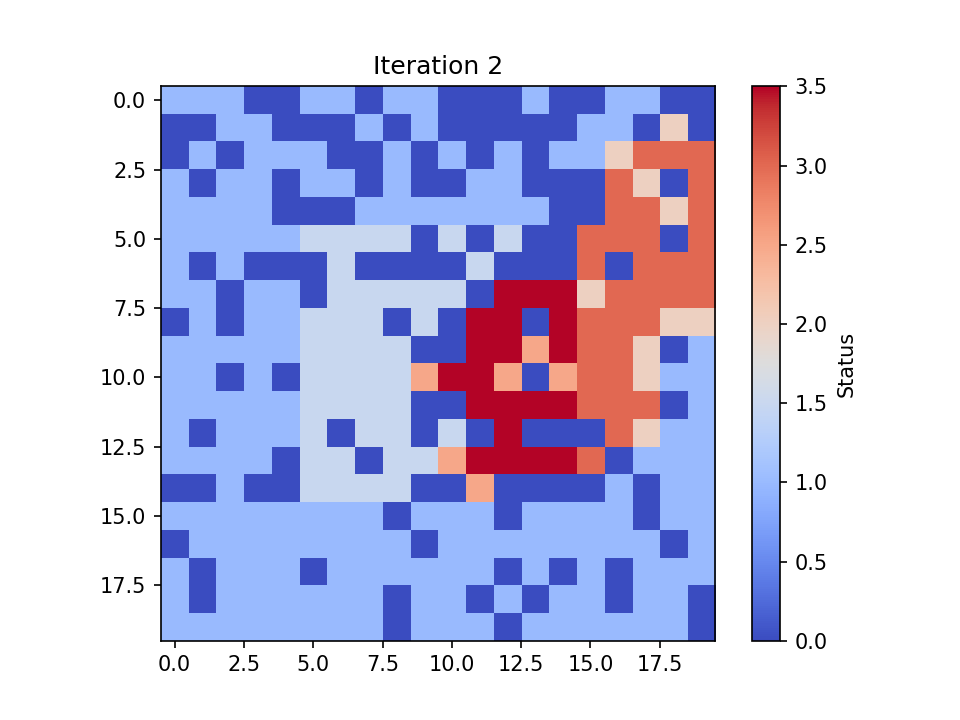
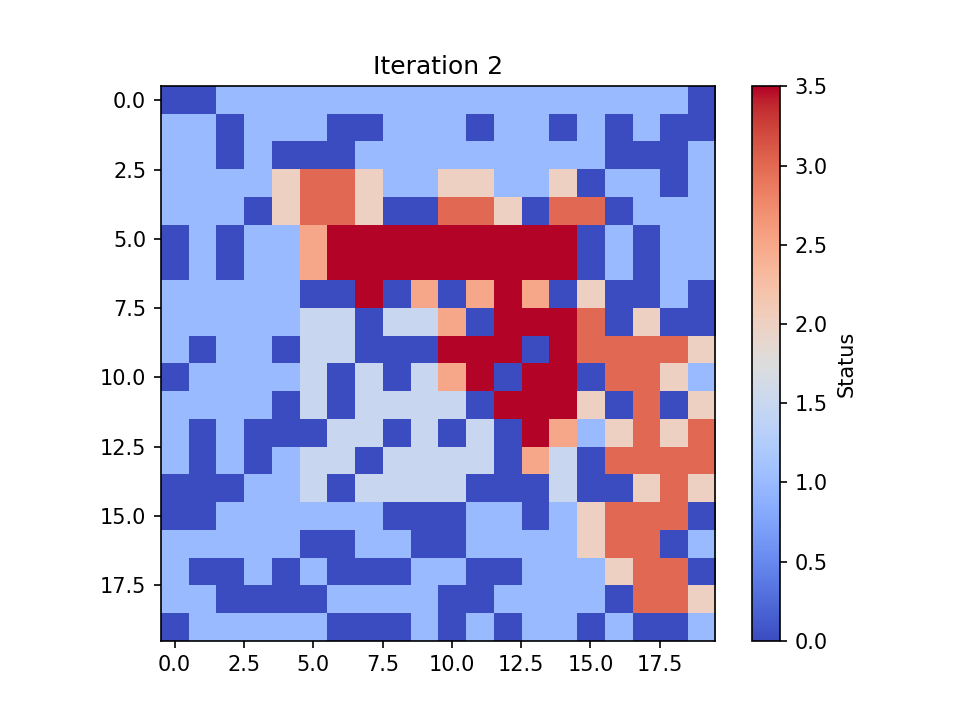
Final tweeks to the show_lecture_hall_over_time function

Changed region(s): [[0.1562, 0.0917, 0.75, 0.8861]]

diff --git a/code/ca_lecture_hall_model.py b/code/ca_lecture_hall_model.py
@@ -1,12 +1,15 @@
-from enum import Enum
 import copy
-import numpy as np
-import matplotlib.pyplot as plt
-from matplotlib.animation import PillowWriter
-import random
 import os
-from matplotlib import animation
+import random
+from enum import Enum
+
+import matplotlib.pyplot as plt
+import numpy as np
 from IPython.display import HTML
+from matplotlib import animation
+from matplotlib.animation import PillowWriter
+from matplotlib.colors import ListedColormap
+from matplotlib.patches import Patch, Rectangle
 
 
 class Status(Enum):
@@ -185,7 +188,8 @@ class Grid:
         self.spread_threshold = spread_threshold
 
     def set_initial_spreader(self, flag_center):
-        """Sets the initial spreader in the lecture hall grid.
+        """
+        Sets the initial spreader in the lecture hall grid.
 
         Parameters:
             flag_center (int):
@@ -194,7 +198,6 @@ class Grid:
             - If 0, the initial spreader is placed near the edges of the lecture hall, outside the central region.
         Raises:
             ValueError: If flag_center is not 0 or 1.
-
         """
         if flag_center not in [0, 1]:
             raise ValueError("flag_center must be 0 or 1")
@@ -364,9 +367,11 @@ class Grid:
         Stops itertaion if for 3 consecutive steps no cell status changes.
 
         Parameters:
-            steps (int): The number of steps to simulate.
+            steps (int): The maximum number of steps to simulate.
 
-        TODO
+        Returns:
+            list: A list of 2D grids, where each grid represents the state of the lecture hall
+                  at a given time step, including the initial state.
         """
         all_grids = [self.lecture_hall]
 
@@ -560,13 +565,58 @@ class Grid:
         ) and self.check_percolation_direction("horizontal")
 
 
-def show_lecture_hall_over_time(cell_grids, save_animation=False):
-    # First set up the figure, the axis, and the plot element we want to animate
-    init_grid = [[cell.get_status().value for cell in row] for row in cell_grids[0]]
-    fig = plt.figure()
-    # im = plt.imshow(init_grid, cmap="coolwarm", interpolation="none", animated=True)
-    im = plt.imshow(init_grid, cmap="coolwarm", interpolation="none", animated=True)
+def show_lecture_hall_over_time(
+    cell_grids, save_animation=False, animation_name="gossip_spread_simulation.mp4"
+):
+    """
+    Visualise the spread of a rumour over time using an animated grid and outlining the central region
 
+    Parameters:
+        cell_grids (list of list of list of Cell): List of lecture hall grids of cells, one grid for each time step.
+        save_animation (bool, optional): Whether to save the animation as an MP4 file. Default is False.
+        animation_name (str, optional): The name of the file to save the animation if `save_animation` is True.
+
+    Returns:
+            HTML: An HTML object containing the animation for rendering in Jupyter Notebook.
+    """
+    # Set up the figure and color map
+    init_grid = [[cell.get_status().value for cell in row] for row in cell_grids[0]]
+
+    fig = plt.figure()
+    colors = ["lightgray", "white", "gold", "goldenrod"]
+    cmap = ListedColormap(colors)
+
+    im = plt.imshow(init_grid, cmap=cmap, interpolation="none", animated=True)
+
+    # Add a square specifying the central 10x10 area
+    ax = plt.gca()
+    left_corner_coordinate = (len(init_grid[0]) // 4) - 0.5
+    square = Rectangle(
+        (left_corner_coordinate, left_corner_coordinate),
+        11,
+        11,
+        edgecolor="dimgray",
+        facecolor="none",
+        linewidth=2,
+    )
+    ax.add_patch(square)
+
+    # Add legend to the plot
+    legend_patches = [
+        Patch(
+            facecolor=color, edgecolor="black", label=f"State {i}"
+        )  # TODO: use the names of states instead of numbers
+        for i, color in enumerate(colors)
+    ]
+
+    plt.legend(
+        handles=legend_patches,
+        title="States",
+        loc="upper right",
+        bbox_to_anchor=(1.2, 1),
+    )
+
+    # Get the state number for each cell
     grids = [
         [[cell.get_status().value for cell in row] for row in cell_grid]
         for cell_grid in cell_grids
@@ -588,6 +638,6 @@ def show_lecture_hall_over_time(cell_grids, save_animation=False):
     # your system: for more information, see
     # http://matplotlib.sourceforge.net/api/animation_api.html
     if save_animation:
-        anim.save("basic_animation.mp4", fps=30, extra_args=["-vcodec", "libx264"])
+        anim.save(animation_name, fps=30, extra_args=["-vcodec", "libx264"])
 
     return HTML(anim.to_html5_video())
